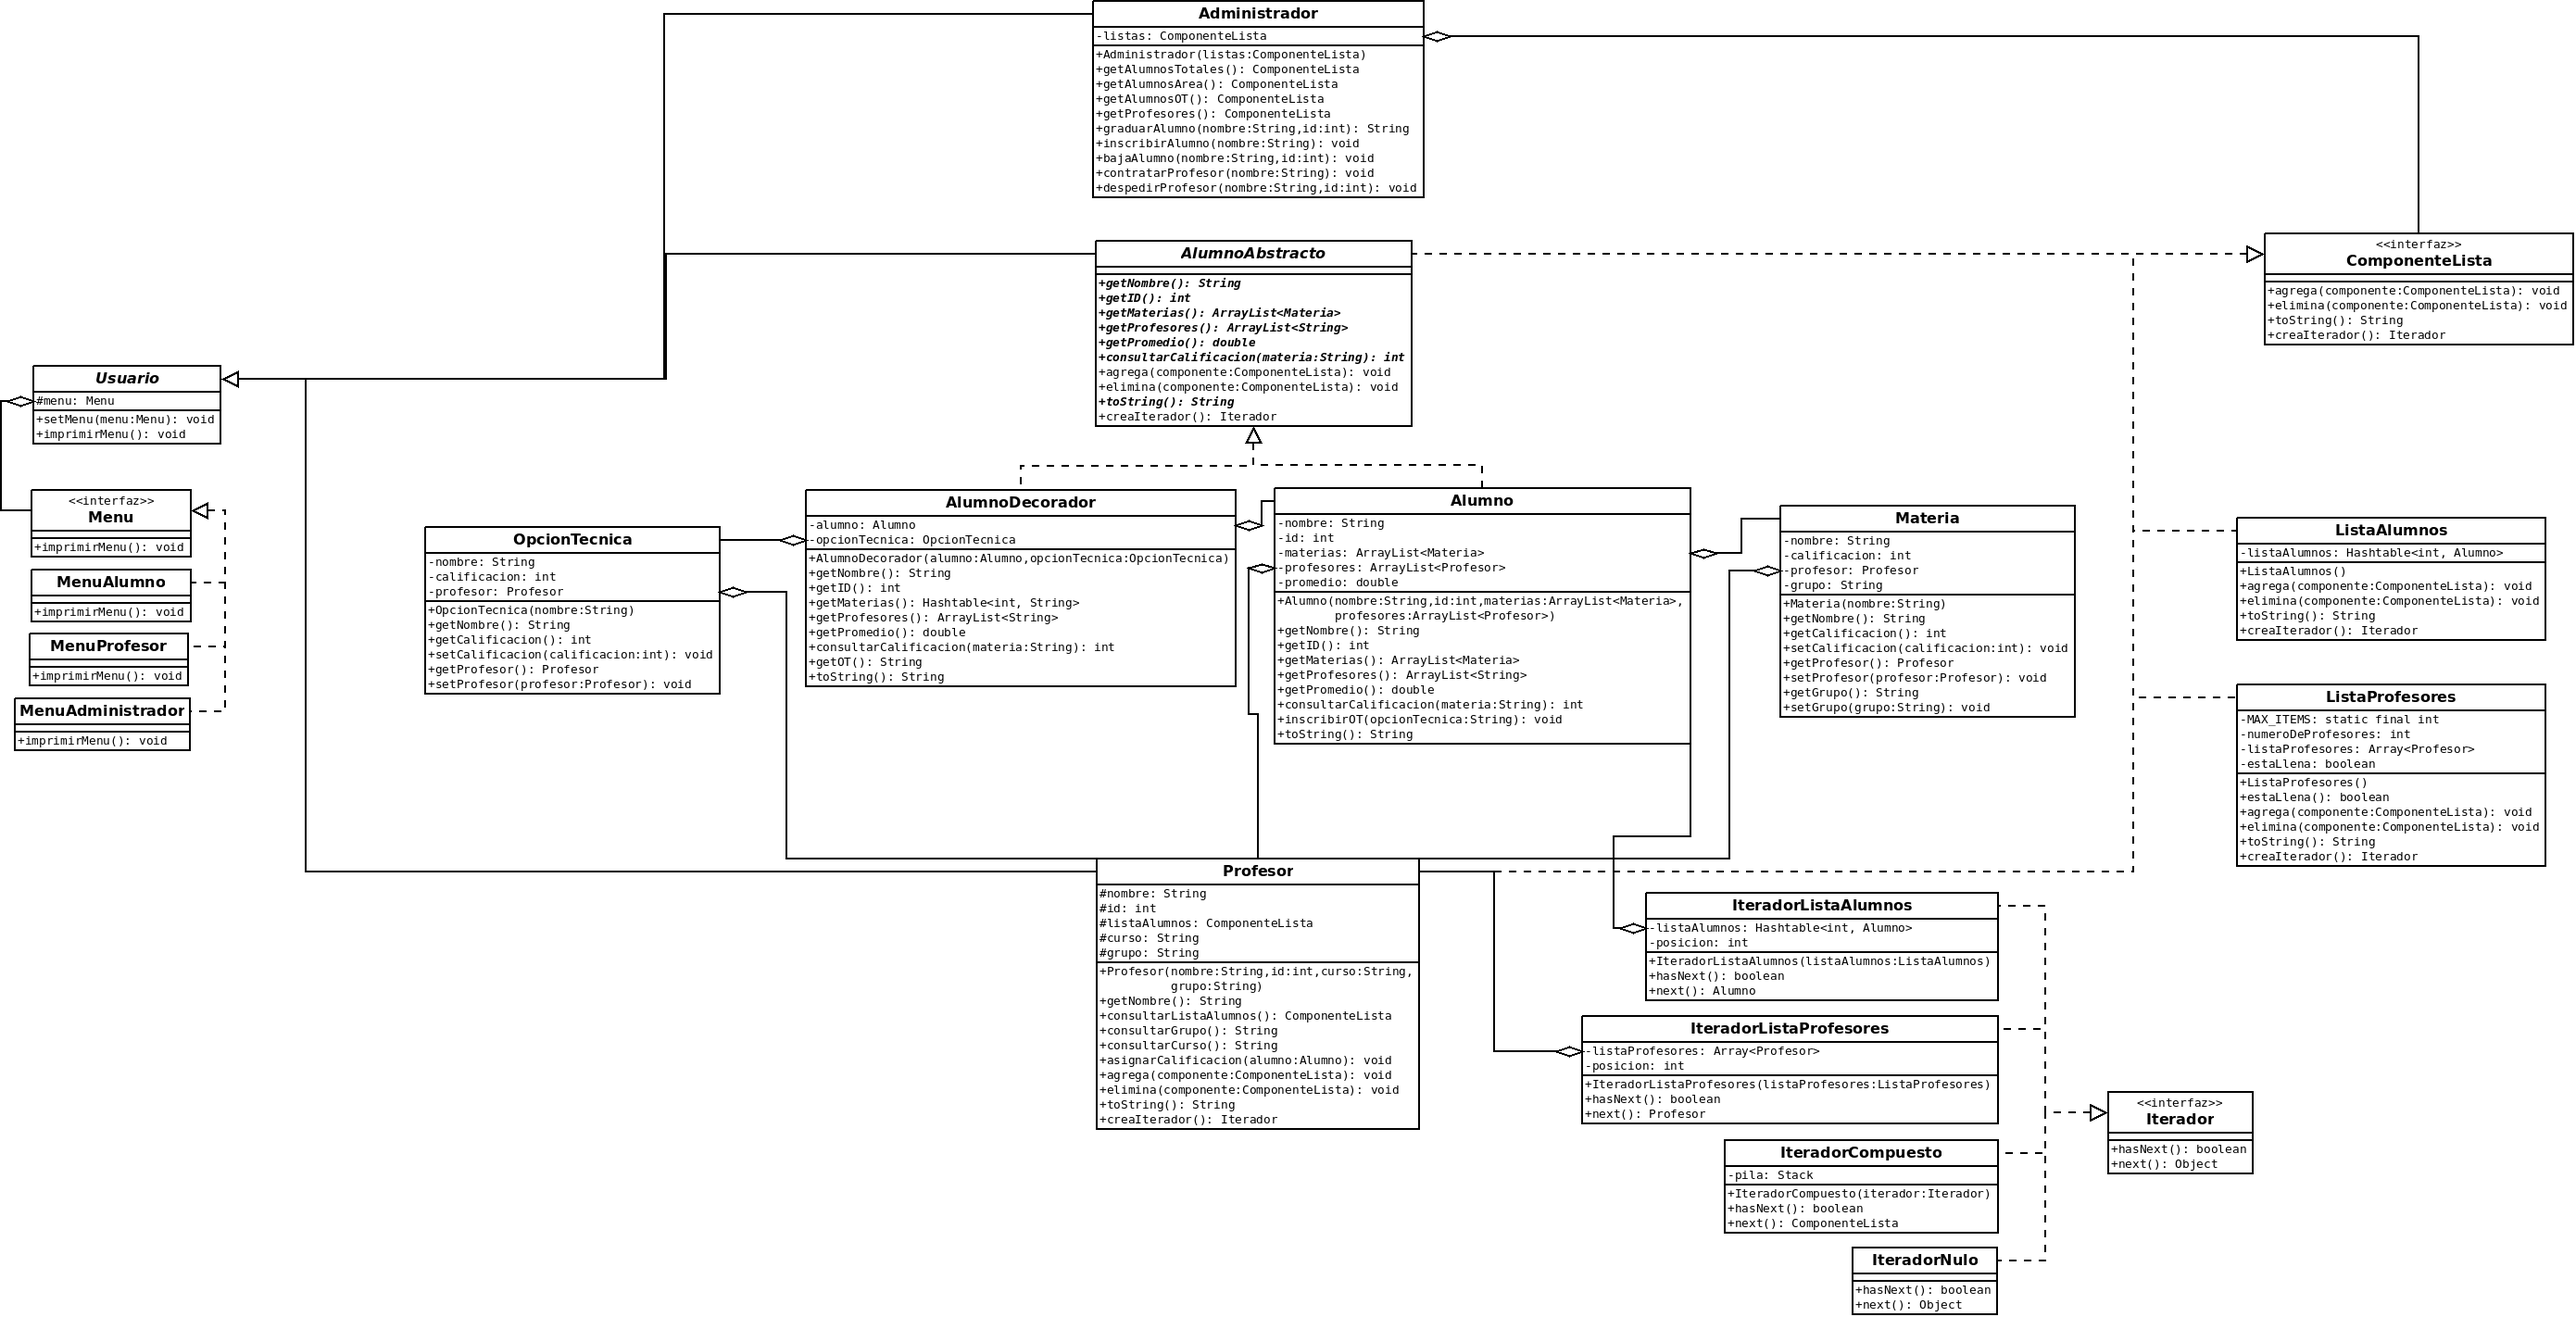
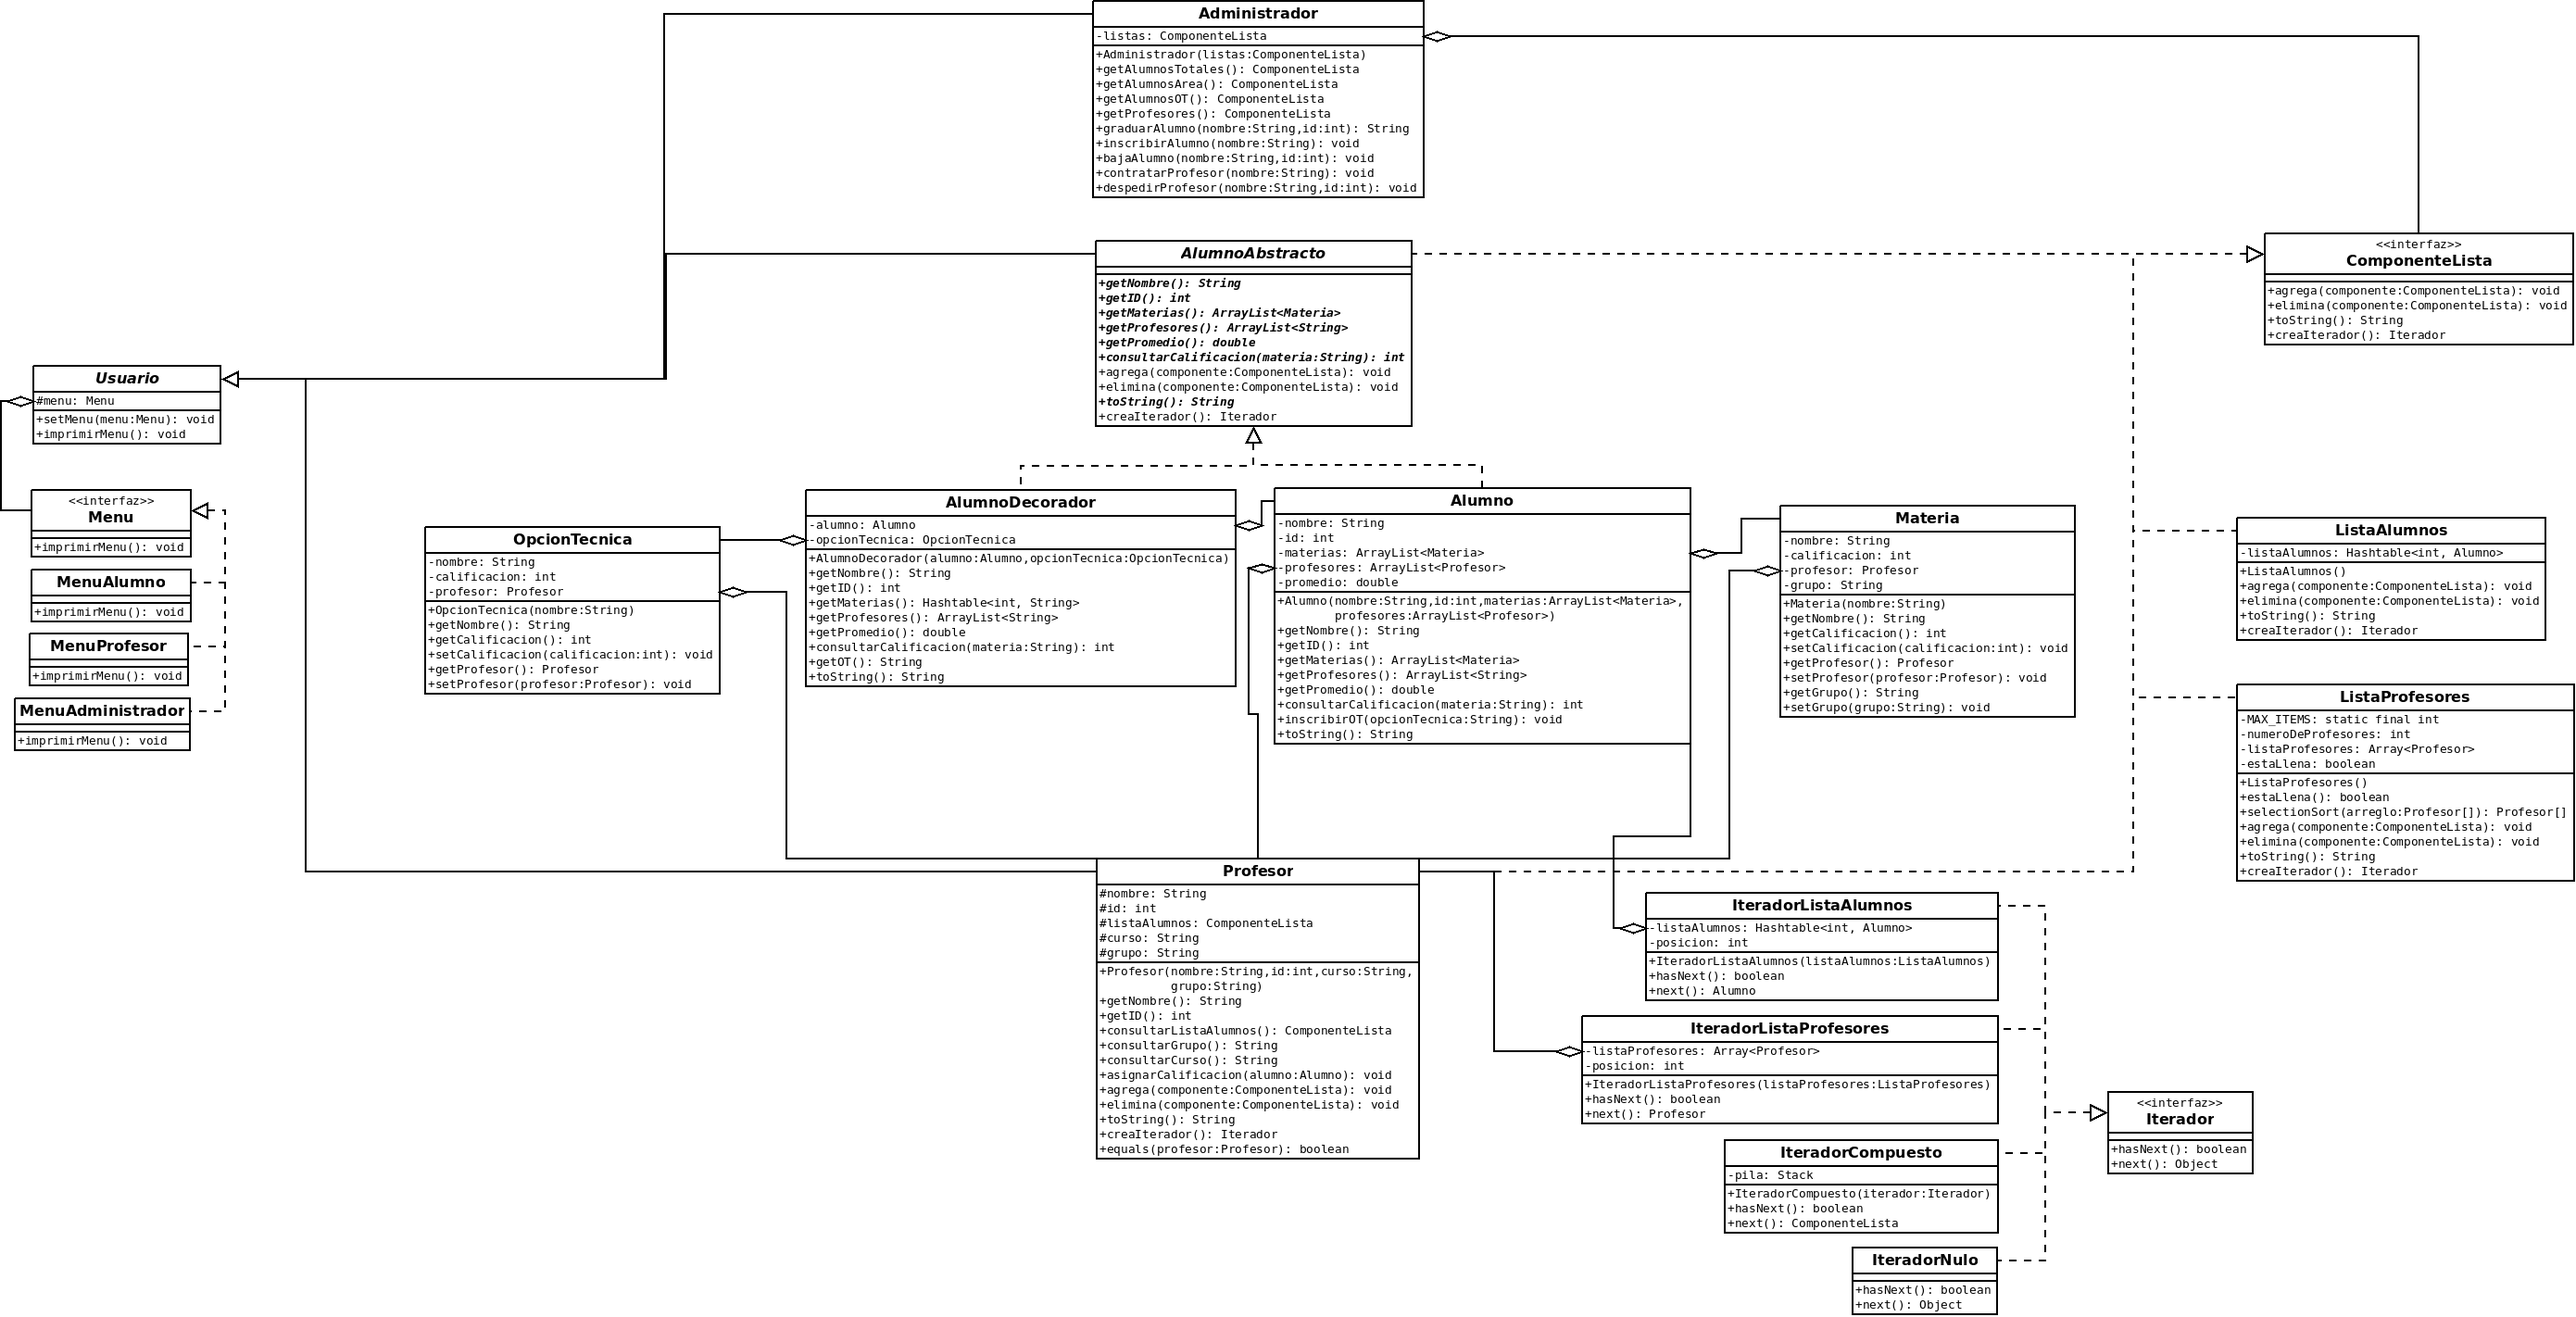
Diagrama ver 3.1

diff --git a/src/main/java/mx/unam/ciencias/myp/ListaProfesores.java b/src/main/java/mx/unam/ciencias/myp/ListaProfesores.java
@@ -12,12 +12,46 @@ public class ListaProfesores implements ComponenteLista {
     private int numeroDeProfesores = 0;
     /* La lista de alumnos. */
     private Profesor[] listaProfesores;
+    /* Booleano para saber si la lista esta llena. */
+    private boolean estaLlena;
 
     /**
      * Constructor que define el estado incial de la lista de alumnos.
      */
     public ListaProfesores() {
         listaProfesores = new Profesor[MAX_ITEMS];
+        estaLlena = false;
+    }
+
+    /**
+     * Regresa true si la lista esta llena, o false en otro caso.
+     * @return true si la lista esta llena, o false en otro caso.
+     */
+    public boolean estaLlena() {
+        return estaLlena;
+    }
+
+    /**
+     * Ordena el arreglo recibido usando SelectionSort.
+     * @param arreglo el arreglo a ordenar.
+     */
+    public Profesor[] selectionSort(Profesor[] arreglo) {
+        for (int i = 0; i < arreglo.length; i++) {
+            int m = i;
+            for (int j = i + 1; j < arreglo.length; j++)
+                if (arreglo[m].getID() > arreglo[j].getID())
+                    m = j;
+            intercambia(arreglo, i, m);
+        }
+    }
+
+    /* Método auxiliar para intercambiar dos elementos dentro de un arreglo. */
+    private void intercambia(Profesor[] arreglo, int a, int b) {
+        if (a == b)
+            return;
+        Profesor auxiliar = arreglo[a];
+        arreglo[a] = arreglo[b];
+        arreglo[b] = auxiliar;
     }
 
     /**
@@ -29,8 +63,15 @@ public class ListaProfesores implements ComponenteLista {
             for (int i = 0; i < listaProfesores.length, i++) {
                 if (listaProfesores[i] != null)
                     continue;
-                listaProfesores[i] = componente;
+                else {
+                    listaProfesores[i] = (Profesor)componente;
+                    if (i == listaProfesores.length - 1)
+                        estaLlena = true;
+                    return;
+                }
             }
+            estaLlena = true;
+            System.out.println("La lista de profesores está llena.");
         }
         return;
     }
@@ -40,7 +81,11 @@ public class ListaProfesores implements ComponenteLista {
      * @param componente el componente a eliminar.
      */
     @Override public void elimina(ComponenteLista componente) {
-        //Aquí va el código.
+        for (int i = 0; i < listaProfesores.length; i++)
+            if (listaProfesores[i].equals(componente))
+                listaProfesores[i] = null;
+            else
+                continue;
     }
 
     /**
